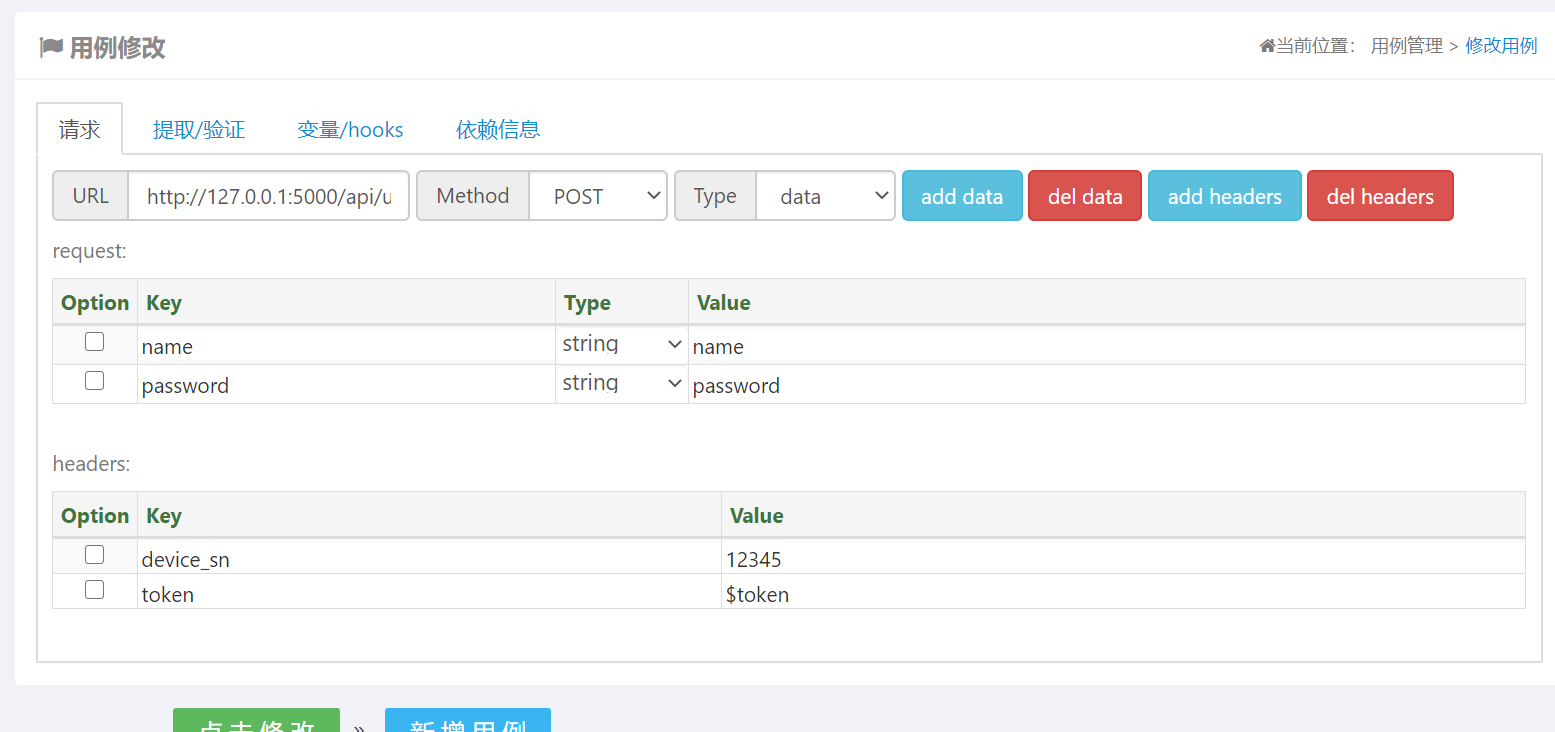
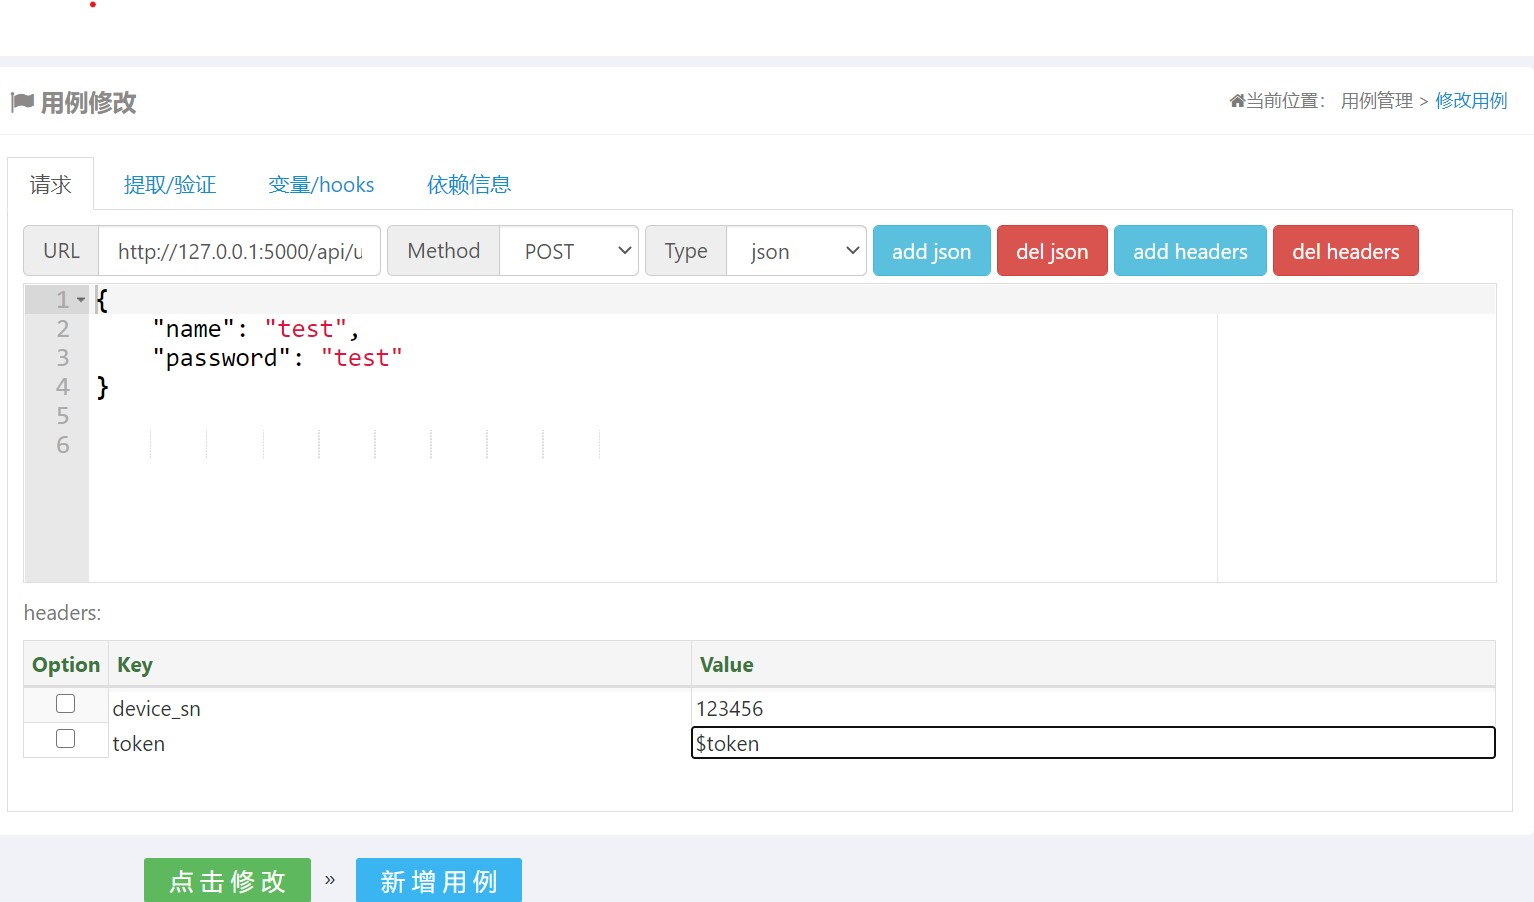
update

diff --git a/Chapter-09-code/demo/api_server.py b/Chapter-09-code/demo/api_server.py
@@ -224,4 +224,6 @@ def delete_user(uid):
     return response
 
 if __name__ == '__main__':
-    app.run()
+    app.run(
+        host="0.0.0.0"
+    )

diff --git a/Chapter-09.md b/Chapter-09.md
@@ -101,12 +101,75 @@
 `python api_server.py `
 api_server.py包括一下功能
 1. index 返回hello world
+    ```
+    path: /
+    method: get
+    params: 无
+    ```
+    例子：
+    `curl 127.0.0.1:5000`
 2. get_token 获取认证token
+    ```
+    path: /api/get-token
+    method: post
+    header：device_sn，os_platform，app_version
+    数据格式： json
+    内容： {"sign":"xxxx"}
+    ```
+    例子：
+    `curl -H "device_sn:123456" -H "os_platform:ios" -H "app_version:v1" -H "Content-Type:application/json" -d '{"sign":"4d11fd0929db6d0df9dfdec5329a2f9c5b53ba1c"}' http://127.0.0.1:5000/api/get-token`
 3. get_users 获取用户列表
+   ```
+   path: /api/users
+   method: get
+   header: device_sn,token
+   ```
+   例子：
+   `curl -H "device_sn:123456" -H "token:T9OI65aASKcHqeaH"   http://127.0.0.1:5000/api/users`
 4. create_user 创建用户
+    ```
+    path：/api/users/uid
+    method：post
+    header: device_sn,token
+    数据格式： json
+    数据内容：{"user":"test"}
+    ```
+    例子
+    `
+     curl -XPOSt -H "device_sn:123456" -H "token:cnSQdjGu1D7XzK8l" -H "Content-Type:application/json"   http://127.0.0.1:5000/api/users/1004 -d '{"name":"test","password":"test"}'
+      `
 5. get_user 获取用户信息
+    ```
+    path：/api/users/uid
+    method：post
+    header: device_sn,token
+    ```
+    例子
+    ·curl -H "device_sn:123456" -H "token:cnSQdjGu1D7XzK8l"   http://127.0.0.1:5000/api/users/1004
+{"success": true, "data": {"name": "test", "password": "test"}}·
+
 6. update_user 更新用户信息
+    ```
+    path：/api/users/uid
+    method：put
+    header: device_sn,token
+    数据格式： json
+    数据内容：{"user":"test"}
+    ```
+
+   例子
+   `curl -XPUT -H "device_sn:123456" -H "token:cnSQdjGu1D7XzK8l" -H "Content-Type:application/json"   http://127.0.0.1:5000/api/users/1004 -d '{"name":"test","password":"test2"}'
+`
 7. delete_user 删除用户信息
+    ```
+    path：/api/users/uid
+    method：delete
+    header: device_sn,token
+
+    ```
+例子
+`curl -XDELETE -H "device_sn:123456" -H "token:cnSQdjGu1D7XzK8l"   http://127.0.0.1:5000/api/users/1004 
+{"success": true, "data": {"name": "test", "password": "test2"}}`
 
 ### 简单例子
 1. 新建项目
@@ -191,11 +254,14 @@ get_sign 为debugtalk中定义的函数$和大括号不能丢
 1. 定义数据与header
 ![img](./Chapter-09-code/pics/create_user-header.jpg)
 
-data
-|key     | value                |
-|----------|--------------------|
-| name  | name       |
-| password| password     |
+json
+```
+{
+    "name": "test",
+    "password": "test"
+}
+
+```
 
 header
 |key     | value                |
@@ -214,12 +280,206 @@ status_code 201
 
 创建用户接口需要一个token，该token可以通过get_token 接口获取
 
-前提，需要get_token 接口添加一个提取
+修个get_token 用例添加一个提取
 ![img](./Chapter-09-code/pics/get_token-extract.jpg)
 token    content.token
 
+并将get_token用例中的变量 device_sn改为123456
+
+练习修改用户接口
+
+## httprunner
+
+平台底层使用的是httprunnnr进行接口测试，运行测试时会在项目的根目录下有个sutie目录,每次运行都会在suite目录下产生一个时间格式的目录
+```
+/opt/hat/suite# ls
+'2021-02-28 14-35-12-412'  '2021-02-28 14-49-42-857'  '2021-03-06 14-07-41-004'  '2021-03-06 14-18-34-437'  '2021-03-06 14-45-12-737'  '2021-03-06 15-00-50-896'   reports
+'2021-02-28 14-36-28-064'  '2021-03-06 13-56-44-754'  '2021-03-06 14-14-44-314'  '2021-03-06 14-26-27-323'  '2021-03-06 14-46-54-131'  '2021-03-06 15-01-39-756'
+'2021-02-28 14-36-58-074'  '2021-03-06 13-58-57-868'  '2021-03-06 14-17-06-369'  '2021-03-06 14-44-36-376'  '2021-03-06 14-56-08-401'  '2021-03-06 15-01-58-616'
+```
+
+目录结构如下
+```
+tree '2021-03-06 15-01-58-616'
+2021-03-06 15-01-58-616
+├── apiserver测试
+│   └── 测试首页
+│       └── create-user.yml
+└── debugtalk.py
+
+2 directories, 2 files
+
+```
+里面包含我们项目中的debugtalk.py文件和测试用例文件xxx.yml
+
+yml格式如下
+```
+-   config:
+        base_url: ''
+        name: create-user
+-   test:
+        extract:
+        -   token: content.token
+        name: get-token
+        request:
+            headers:
+                app_version: $app_version
+                device_sn: $device_sn
+                os_platform: $os_platform
+            json:
+                sign: ${get_sign($device_sn, $os_platform, $app_version)}
+            method: POST
+            url: http://127.0.0.1:5000/api/get-token
+        validate:
+        -   check: status_code
+            comparator: equals
+            expect: 200
+        variables:
+        -   device_sn: '123456'
+        -   os_platform: ios
+        -   app_version: v1
+-   test:
+        name: create-user
+        request:
+            headers:
+                device_sn: '123456'
+                token: $token
+            json:
+                name: test
+                password: test
+            method: POST
+            url: http://127.0.0.1:5000/api/users/1004
+        validate:
+        -   check: status_code
+            comparator: equals
+            expect: 201
+
+```
+
+我们平台的创建用例就是生成这个yml的文件，运行用例就使用httprunner跑用例
+
+runner.py 中的 run_by_single函数作用就是生成上面的测试目录结构，包括debugtalk.py和yml文件
+
+执行测试用例代码，views.py中的test_run和test_batch_run
+```
+run_test_by_type(id, base_url, testcase_dir_path, type) #生成测试目录
+runner.run(testcase_dir_path) #使用httprunner的run方法，启动测试用例
+```
+我们也可以直接使用httprunner提供的命令hrun来运行测试用例
+```
+root@myhub:/opt/hat/suite/2021-03-06 15-01-58-616# hrun  ./
+INFO     Start to run testcase: create-user
+get-token
+INFO     POST http://127.0.0.1:5000/api/get-token
+INFO     status_code: 200, response_time(ms): 8.39 ms, response_length: 46 bytes
+
+.
+create-user
+INFO     POST http://127.0.0.1:5000/api/users/1004
+INFO     status_code: 201, response_time(ms): 9.33 ms, response_length: 54 bytes
+
+.
+
+----------------------------------------------------------------------
+Ran 2 tests in 0.020s
+
+OK
+INFO     Start to render Html report ...
+INFO     Generated Html report: /opt/hat/suite/2021-03-06 15-01-58-616/reports/1615016134.html
+
+```
+
+yml配置文件
+extract 和 validate 常用字段 
+```
+response content could be json or html text.
+
+        Args:
+            field (str): string joined by delimiter.
+            e.g.
+                "status_code"
+                "headers"
+                "cookies"
+                "content"
+                "headers.content-type"
+                "content.person.name.first_name"
+```
 
 
+## celery
+关于异步执行我们使用celery框架,具体代码见tasks.py,定时任务使用了django_celery_beat 模块代码见task_opt.py
+
+Celery 是一个简单、灵活且可靠的，处理大量消息的分布式系统，并且提供维护这样一个系统的必需工具。是一个专注于实时处理的任务队列，同时也支持任务调度。
+
+
+任务队列用作跨线程或机器分配工作的机制。 任务队列的输入是为一个任务。任务队列通过消息系统borker实现。客户端往broker中加任务，worker进程不断监视broker中的任务队列以执行新的任务
+
+
+支持的常见broker
++ redis
++ rabbitmq
++ zookeeper
+
+安装支持redis的celery
+```
+pip install celery -i https://pypi.douban.com/simple/
+pip install redis -i https://pypi.douban.com/simple/
+pip install  eventlet -i https://pypi.douban.com/simple/
+```
+
+
+编写tasks.py
+```
+from celery import Celery
+
+app = Celery('tasks', broker='redis://127.0.0.1:6379/0')
+
+@app.task
+def add(x, y):
+    return x + y
+```
+
+
+client.py
+```
+from tasks import add
+add.delay(2,3) 
+```
+
+启动 redis
+执行client.py 生成一个要执行的任务
+`python client.py`
+查看redis key
+```
+127.0.0.1:6379> keys *
+1) "celery"
+2) "_kombu.binding.celery"
+```
+查看key类型
+```
+127.0.0.1:6379> type celery
+list
+127.0.0.1:6379> type "_kombu.binding.celery"
+set
+```
+查看key 的value
+```
+127.0.0.1:6379> lrange celery 0 -1
+1) "{\"body\": \"W1syLCAzXSwge30sIHsiY2FsbGJhY2tzIjogbnVsbCwgImVycmJhY2tzIjogbnVsbCwgImNoYWluIjogbnVsbCwgImNob3JkIjogbnVsbH1d\", \"content-encoding\": \"utf-8\", \"content-type\": \"application/json\", \"headers\": {\"lang\": \"py\", \"task\": \"tasks.add\", \"id\": \"d0ac9482-bb5f-4b4d-8b70-625cd88aad0d\", \"shadow\": null, \"eta\": null, \"expires\": null, \"group\": null, \"retries\": 0, \"timelimit\": [null, null], \"root_id\": \"d0ac9482-bb5f-4b4d-8b70-625cd88aad0d\", \"parent_id\": null, \"argsrepr\": \"(2, 3)\", \"kwargsrepr\": \"{}\", \"origin\": \"gen15684@LAPTOP-PHMJ1QN6\"}, \"properties\": {\"correlation_id\": \"d0ac9482-bb5f-4b4d-8b70-625cd88aad0d\", \"reply_to\": \"7d107092-94b4-35c8-bb26-20063dc7944d\", \"delivery_mode\": 2, \"delivery_info\": {\"exchange\": \"\", \"routing_key\": \"celery\"}, \"priority\": 0, \"body_encoding\": \"base64\", \"delivery_tag\": \"3526616e-1efc-4eae-867d-1715c8751531\"}}"
+
+127.0.0.1:6379> smembers "_kombu.binding.celery"
+1) "celery\x06\x16\x06\x16celery"
+```
+
+
+celery 为一个任务队列列表 等待执行的任务都在这个列表里
+_kombu.binding.celery 默认的任务队列名称默认为 celery
+
+
+
+启动worker
+
+`celery -A tasks worker --loglevel=info  -P eventlet`
 
 
 
